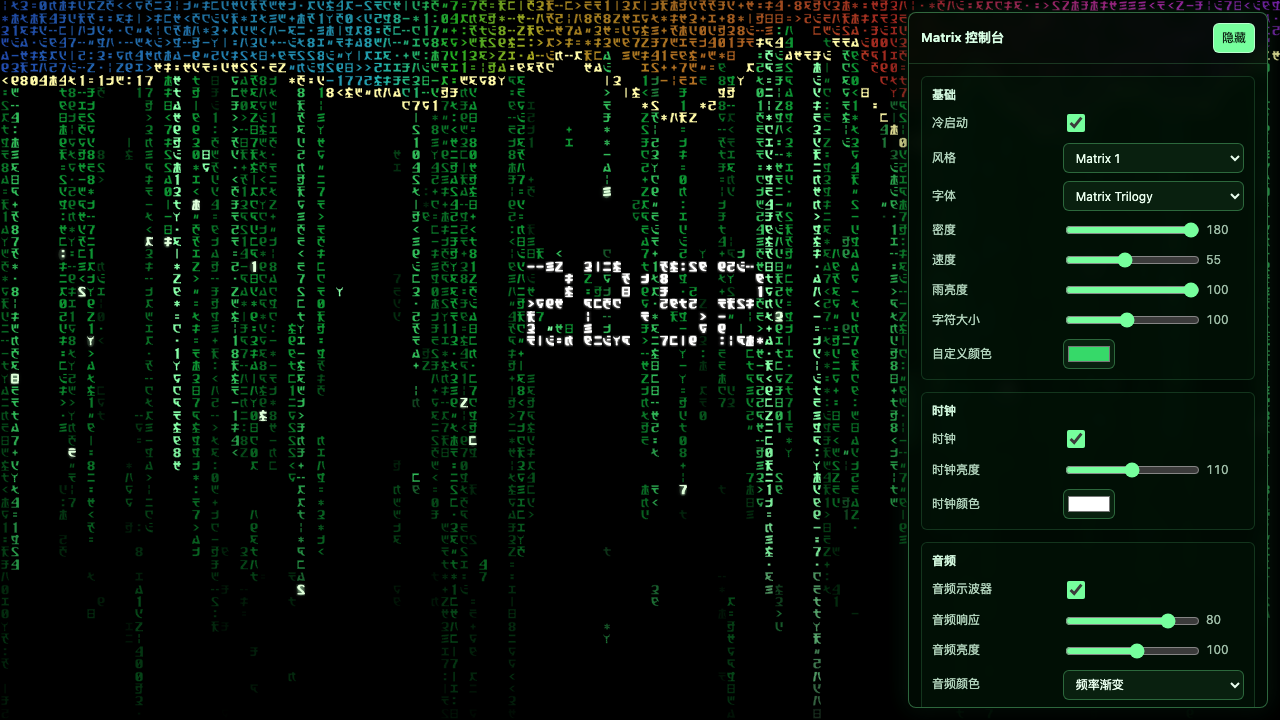
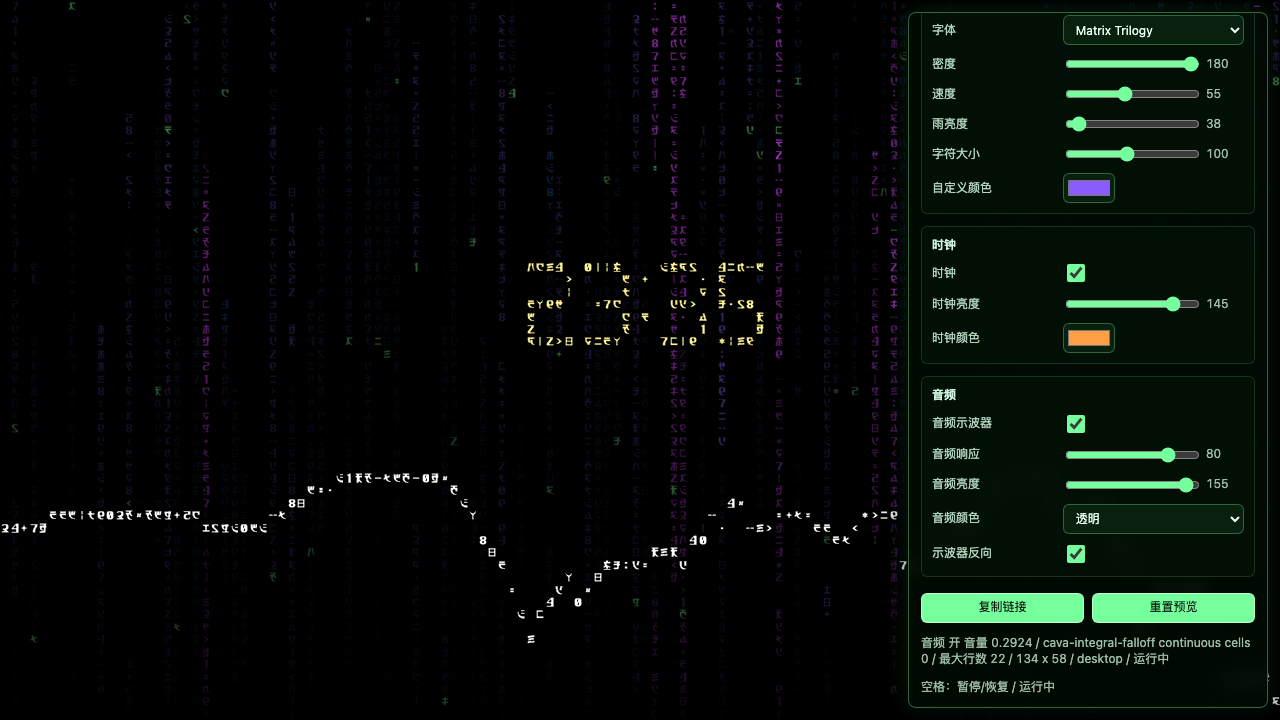
Update README screenshots

diff --git a/README.md b/README.md
@@ -26,11 +26,15 @@ Creator-page and Workshop description drafts are in [docs/support-pages.md](docs
 
 ## Screenshots
 
-### Default / 默认效果
+### Matrix rain only / 纯代码雨
 
 ![Matrix rain](docs/screenshots/matrix-rain.png)
 
-### Controls / 控制台
+### Clock and audio response / 时钟与音频响应
+
+![Clock and audio response](docs/screenshots/clock-audio.png)
+
+### Reverse peak caps with controls / 反向峰值帽与控制台
 
 ![Controls](docs/screenshots/controls.png)
 
